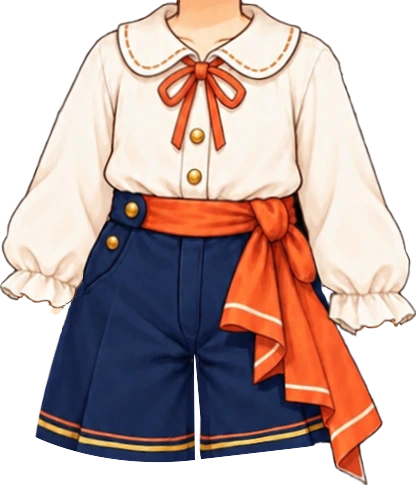
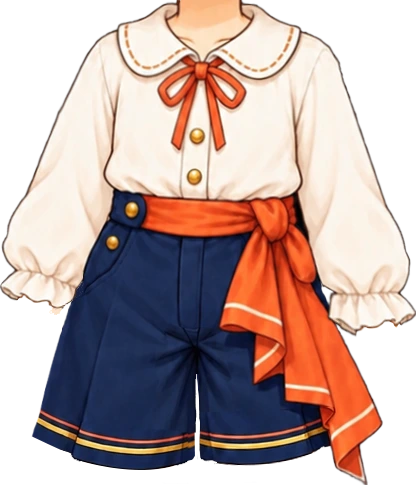
여아 해적 옷 수정판으로 교체 (#773)
반바지 밑단 아래가 조금 늘어난 사용자 수정판. 같은 탑재값(배율 0.70). imgGirl ?v=5.

Claude-Session: https://claude.ai/code/session_018maNuYqDfFyRSe9uKpZhPR

Changed region(s): [[0.0625, 0.6804, 0.8125, 0.9897]]

diff --git a/src/data/avatarEquipment.js b/src/data/avatarEquipment.js
@@ -297,8 +297,9 @@ export const AVATAR_CATALOG = [
      색으로 옷을 골라낼 필요가 없어서 제일 깔끔하다. 탑재 상자 (358,397)-(670,763). */
   /* [2026-10-02] 여아 해적 옷 새 원화로 교체 — 크림 퍼프 블라우스(둥근 깃·주황 리본) + 주황 허리띠 남색 반바지(사용자 원화).
      베이커리룩과 같은 방식: 원화 목 외곽선 중심(x209)을 여아 목 중심 x512.5 에, 곧은 목선이 끝나는 원화 y15 를 y372 에 맞추고
-     배율 0.70(원화 목 폭 63 → 여아 목 44, 흰 수영복도 이 값부터 다 가려진다). 원화 목은 페이드. imgGirl ?v=4 · thumbGirl ?v=2. */
-  { id: "top_pirate",     slot: "top",   label: "해적 옷",     emoji: "⚓", price:DECOR_PRICE.epic, rarity: "epic", theme: "pirate", coversBottom: true, img: "assets/avatar/top/pirate-outfit-boy.webp", imgGirl: "assets/avatar/top/pirate-outfit-girl.webp?v=4", thumb: "assets/avatar/thumb/top_pirate.webp", thumbGirl: "assets/avatar/thumb/top_pirate-girl.webp?v=2" },
+     배율 0.70(원화 목 폭 63 → 여아 목 44, 흰 수영복도 이 값부터 다 가려진다). 원화 목은 페이드. imgGirl ?v=4 · thumbGirl ?v=2.
+     [2026-10-02] 사용자 수정판으로 교체 — 반바지 밑단 아래가 조금 늘었다. 같은 탑재값. imgGirl ?v=5 · thumbGirl ?v=3. */
+  { id: "top_pirate",     slot: "top",   label: "해적 옷",     emoji: "⚓", price:DECOR_PRICE.epic, rarity: "epic", theme: "pirate", coversBottom: true, img: "assets/avatar/top/pirate-outfit-boy.webp", imgGirl: "assets/avatar/top/pirate-outfit-girl.webp?v=5", thumb: "assets/avatar/thumb/top_pirate.webp", thumbGirl: "assets/avatar/thumb/top_pirate-girl.webp?v=3" },
   /* 민트 후드 — 남아 전용 첫 아이템(forGender:"boy"). 크림 후드 + 왼팔만 보라 소매 +
      민트 후드 안감·꽃 패치 + 짙은 카고 반바지. 상·하의가 한 장이라 상의 슬롯 하나.
      원화는 옷만 오려 낸 깨끗한 그림인데 **후드 안쪽 목·가슴 살은 일부러 남겼다** —

diff --git a/art-src/README.md b/art-src/README.md
@@ -375,7 +375,7 @@ getBoundingClientRect로 재서 정한다. 2026-08-05 점검에서 이 기준을
 | space-girl-src.webp | **[2026-09-25 탑재본 청소]** 색으로 옷을 떼어낸 흔적(손·목·발 살 조각, 깃 안쪽 목)이 층에 남아 있었다. 입은 모습에선 베이스의 같은 자리와 겹쳐 안 보였지만 **상점 카드에선 옷에 손이 매달린 것처럼 보였다.** 소매부리 y583 아래 바깥 덩어리·바지밑단 y868 아래·깃 안쪽 y346~374 의 살과 머리카락을 지우고(3,812px + 부스러기 9조각 22px) 썸네일을 다시 뽑았다. 남아 것도 깃 안쪽 목(y400~428, 1,608px)을 같은 이유로 지웠다. 깃 안은 베이스의 제 목이 채우므로 구멍이 생기지 않는다(실측 확인). **우주복 원화 여아 (사용자 원화 2026-08-19)** — 베이스 v7 여아가 **입고 있는 전신 그림**(897×1753, 배경 검정). 크림색 우주복 + 연보라 어깨·벨트·무릎보호대 + 금색 지퍼·별 패치. 팔다리까지 덮는 한 벌 | avatar/top/space-suit-girl.webp |
 | picnic-girl-src.webp | **딸기 소풍 옷 원화 여아 (사용자 원화 2026-08-19)** — 베이스 v7 여아가 **입고 있는 전신 그림**(859×1832, 배경 검정). 분홍 깅엄 카디건 + 크림 블라우스 + 딸기 자수 산호색 반바지 | avatar/top/picnic-outfit-girl.webp |
 | magic-girl-src.webp | **별빛 마법사 옷 원화 여아 — 새 판 (사용자 원화 2026-10-02, 이전 판 교체)**. 512×553 투명 배경, 보라 후드 망토(금 테두리·별 브로치) + 연보라 원피스·초승달 허리띠·별 무늬 보라 치마, 소매 끝에 치마를 잡은 손까지 그려져 있다. 맨 위(원화 y0~16)에 베이스 턱 아래 곡선이 함께 그려져 있어 보라·금색이 아닌 픽셀을 지웠다. 후드 사이 목 중심 x255.5 를 여아 목 중심 x512.5 에, 원화 턱선 y14 를 여아 턱선 y361 에 맞추고 배율 0.62 — 원화 손이 아바타 손 자리(x357~417·y560~658)를 덮고 그 아래는 치마가 가려 손이 두 쌍으로 안 보인다(손을 지우면 손목이 잘려 보여 살렸다). 목 살은 턱선 아래 20px 동안 0→1 페이드. 흰 수영복 비침 0, 조각 1개. 탑재 상자 (354,353,671,695) · ?v=4 **[2026-10-02 보정]** 사용자 요청으로 옷에 그려진 손만 보이게 — 이 옷을 입으면 손을 뺀 몸 base/body-girl-nohands.webp 를 쓴다(카탈로그 bodyImgGirl). body-girl ?v=13 에서 소매가 팔을 다 덮는 줄(왼 y486·오른 y480)부터 아래의 양팔 덩어리와 손가락 조각(왼 x≤414·오른 x≥598)을 지워 만들었다 — **body-girl 을 바꾸면 이 파일도 다시 만들어야 한다** **[2026-10-02 조정]** 사용자 요청으로 위치는 그대로, 배율 0.62 → 0.6577(×1.04×1.02). 탑재 상자 (344,353,681,716) · img ?v=5, 손을 뺀 몸도 다시 만들어 ?v=2(소매가 팔을 덮는 줄 양쪽 y470) **[2026-10-02 재조정]** 배율 0.6577 → 0.698(위치 그대로). 탑재 상자 (334,353,691,737) · img ?v=6, 손을 뺀 몸 ?v=3 | avatar/top/magic-outfit-girl.webp · thumb/top_magic.webp |
-| pirate-girl-outfit-src.webp | **해적 옷 원화 여아 — 새 판 (사용자 원화 2026-10-02, 이전 판 교체)**. 416×485 투명 배경, 크림 퍼프 블라우스(둥근 깃·주황 리본·금단추) + 주황 허리띠를 맨 남색 반바지 한 벌. 위쪽에 목(턱 없음)이 함께 그려져 있다. 원화 목 외곽선 x177.5~240.5(폭 63, 중심 209)를 여아 목 중심 x512.5 에, 곧은 목선이 끝나는 원화 y15 를 여아 y372 에 맞추고 배율 0.70(목 폭이 같아지는 값 · 흰 수영복도 이 값부터 0). 목 살(r−b>70)과 목 옆선은 원화 y4→20 동안 0→1 페이드. 조각 1개. 탑재 상자 (366,362,657,702) · imgGirl ?v=4 | avatar/top/pirate-outfit-girl.webp · thumb/top_pirate-girl.webp |
+| pirate-girl-outfit-src.webp | **해적 옷 원화 여아 — 새 판 (사용자 원화 2026-10-02, 이전 판 교체)**. 416×485 투명 배경, 크림 퍼프 블라우스(둥근 깃·주황 리본·금단추) + 주황 허리띠를 맨 남색 반바지 한 벌. 위쪽에 목(턱 없음)이 함께 그려져 있다. 원화 목 외곽선 x177.5~240.5(폭 63, 중심 209)를 여아 목 중심 x512.5 에, 곧은 목선이 끝나는 원화 y15 를 여아 y372 에 맞추고 배율 0.70(목 폭이 같아지는 값 · 흰 수영복도 이 값부터 0). 목 살(r−b>70)과 목 옆선은 원화 y4→20 동안 0→1 페이드. 조각 1개. 탑재 상자 (366,362,657,702) · imgGirl ?v=4 **[2026-10-02 수정판]** 같은 크기의 사용자 수정판으로 덮어씀 — 반바지 밑단 아래(원화 y320~470)가 조금 늘었다. 같은 탑재값, 탑재 상자 (366,362,657,702) · imgGirl ?v=5 | avatar/top/pirate-outfit-girl.webp · thumb/top_pirate-girl.webp |
 | picnic-girl-hat-worn-src.webp | **딸기 밀짚모자 원화 여아 (사용자 원화 2026-08-20)** — 베이스 v7 여아가 **쓰고 있는 머리 그림**(557×565, 투명). 밀짚모자 + 빨간 띠 + 딸기. 얼굴 상자로 맞춤(배율 0.6317) · 탑재 상자 (342,71)-(693,284) | avatar/hat/picnic-hat-girl.webp |
 | picnic-girl-set-worn-src.webp | **딸기 소풍 세트 전신 그림 여아 (사용자 원화 2026-08-20)** — 860×1829, 알파가 머리 부분만 살아 있어서 **RGB의 검정 배경을 흘려 지워** 썼다. 여기서 신발(발목 아래)만 떼어냈다. 바구니는 손에 가려 조각나서 못 썼다 | **(넣었다가 상점에서 뺌 2026-08-20)** — 그림은 avatar/shoes/picnic-shoes-girl.webp 에 그대로 있다 |
 | pirate-girl-hat-worn-src.webp | **해적 모자 원화 여아 (사용자 원화 2026-08-20)** — 베이스 v7 여아가 **쓰고 있는 머리 그림**(664×592, 투명). 남색 삼각모 + 주황 테두리 + 불가사리. 얼굴 상자로 맞춤(배율 0.6336) · 탑재 상자 (313,58)-(723,329) | avatar/hat/pirate-hat-girl.webp |
